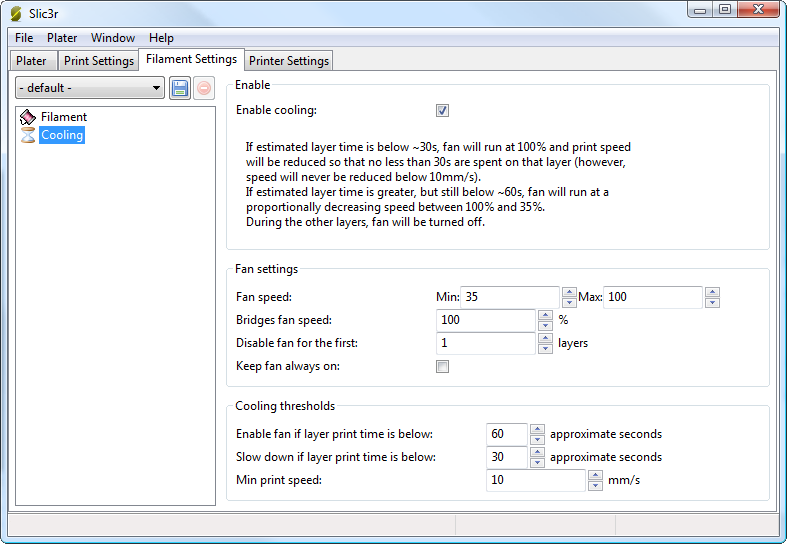
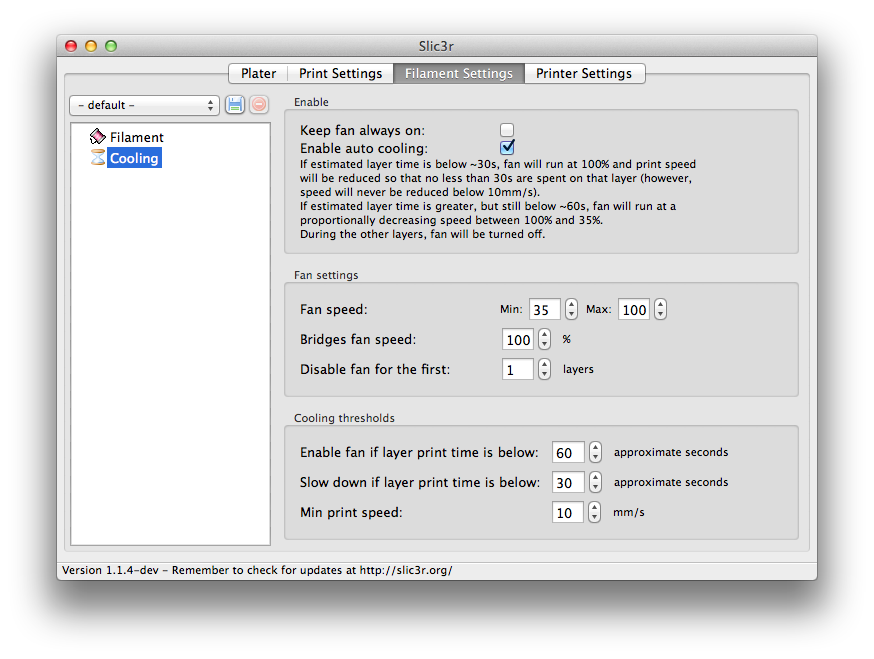
Update cooling settings

diff --git a/src/expert-mode/Cooling.md b/src/expert-mode/Cooling.md
@@ -6,24 +6,23 @@ Applying cooling will allow the freshly deposited material to solidify
 enough to provide a good base for the next layer, helping with
 overhangs, small details and bridges.
 
-There are two main techniques for cooling: adding a fan and slowing down
-the print speed. Slic3r may choose to use both techniques, using a fan
+There are two main techniques for cooling: **adding a fan** and **slowing down
+the print speed**. Slic3r may choose to use both techniques, using a fan
 first, and then slowing down the print if the layer time is too fast.
 
  ![Cooling strategy.](images/cooling_chart.png "fig:")
 
-
-Figure  shows the strategy adopted by Slic3r.
-Reading from right to left, when the minimum fan threshold (\#2) is
+Figure shows the strategy adopted by Slic3r.
+Reading from right to left, when the minimum fan threshold (#2) is
 reached the fan is turned on. This increases in intensity as the layer
 time decreases. The print speed remains constant until the estimated
-print time drops below a certain threshold (\#1), this is when the print
+print time drops below a certain threshold (#1), this is when the print
 speed is reduced until it reaches it’s minimum value.
 
 Fans
 ----
 
- Most electronics and firmware allow the addition of a fan via
+Most electronics and firmware allow the addition of a fan via
 a spare connector. These can then be instructed with G-code, from
 Slic3r, to turn on or off as the model requires, and to rotate at
 different speeds.
@@ -40,7 +39,7 @@ designs available online, for a wide variety of printers.
 Slowing Down
 ------------
 
- Slic3r can tell the printer to slow down if the
+Slic3r can tell the printer to slow down if the
 estimated layer time is above a certain threshold.
 
 Care must be taken as the intended effect could be mitigated by the
@@ -51,14 +50,16 @@ to use a fan where possible.
 Configuring
 -----------
 
+![Cooling settings.](images/cooling_advanced_settings.png)
 
 
-In simple mode Slic3r will attempt to choose the optimal settings for
-both fans and speed. Expert mode gives more granular options.
+-   `Keep fan always on` - If this is enabled, fan will never be disabled 
+     and will be kept running at least at its minimum speed. Useful for PLA,
+     harmful for ABS.
 
- ![Cooling advanced
-settings.](images/cooling_advanced_settings.png "fig:")
-
+-   `Enable auto cooling` - This enables/disables the cooling logic. A 
+    descriptive text below this option describes the effects of the 
+    current configuration.
 
 -   `Fan speed` - Determines the minimum and maximum speeds - useful for
     fans that run too fast by default.
@@ -72,10 +73,6 @@ settings.](images/cooling_advanced_settings.png "fig:")
     layer is, and so it makes sense not to apply the fan until sure the
     print is securely attached to the bed. Keeping the fan turned off
     for the first two or three layers is a good idea.
-
--   `Keep fan always on` - Overrides any other choices and has the fan
-    run continuously, at least at the minimum speed setting. This can be
-    useful when printing with PLA, but is not recommended for ABS.
 
 -   `Enable fan if print time is below t seconds` - Triggers the fan if
     the layer will be completed within the given number of seconds.
